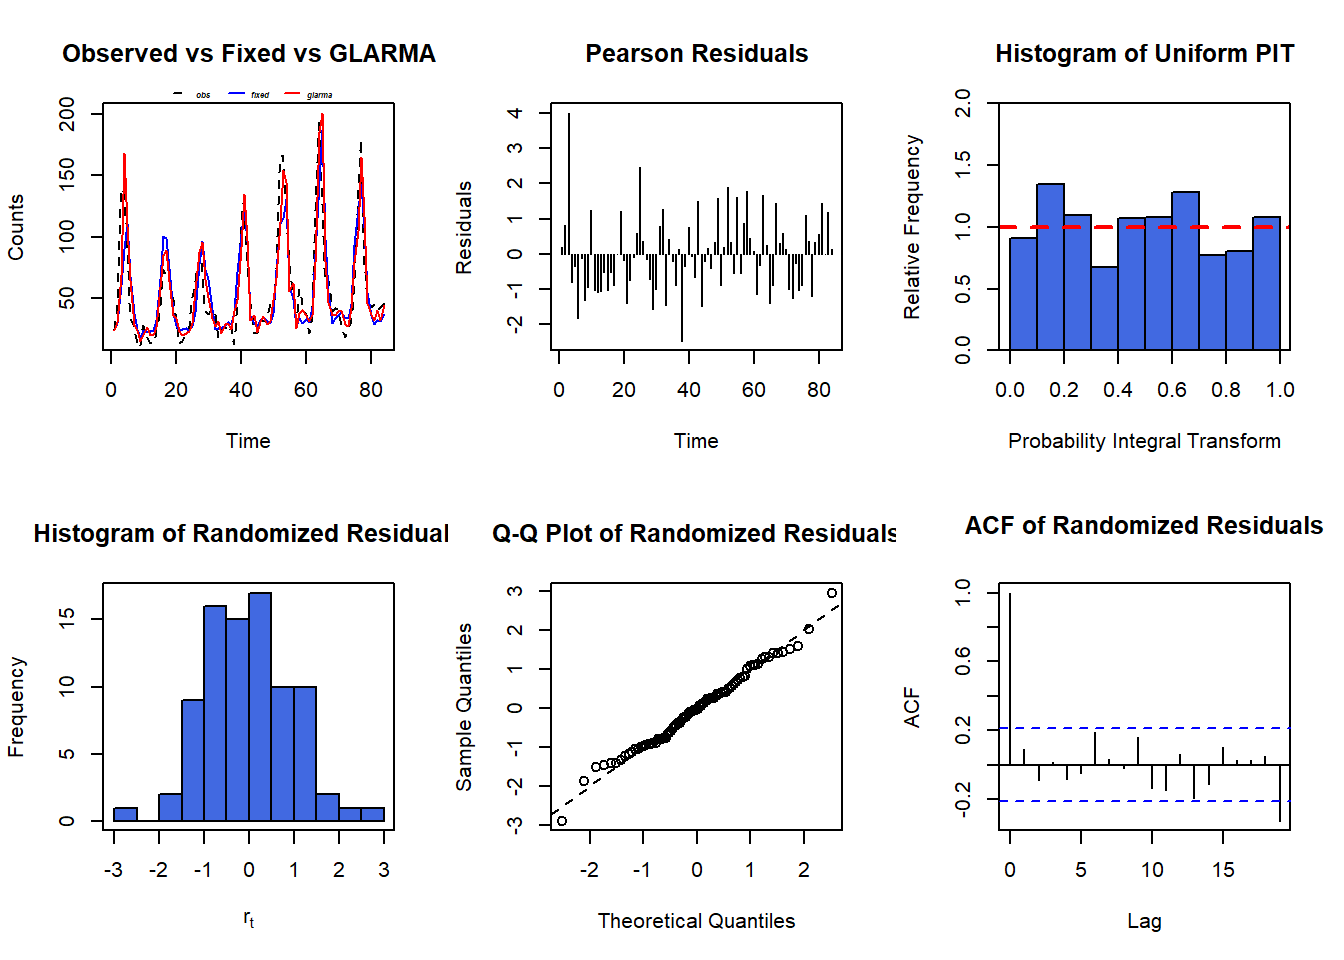
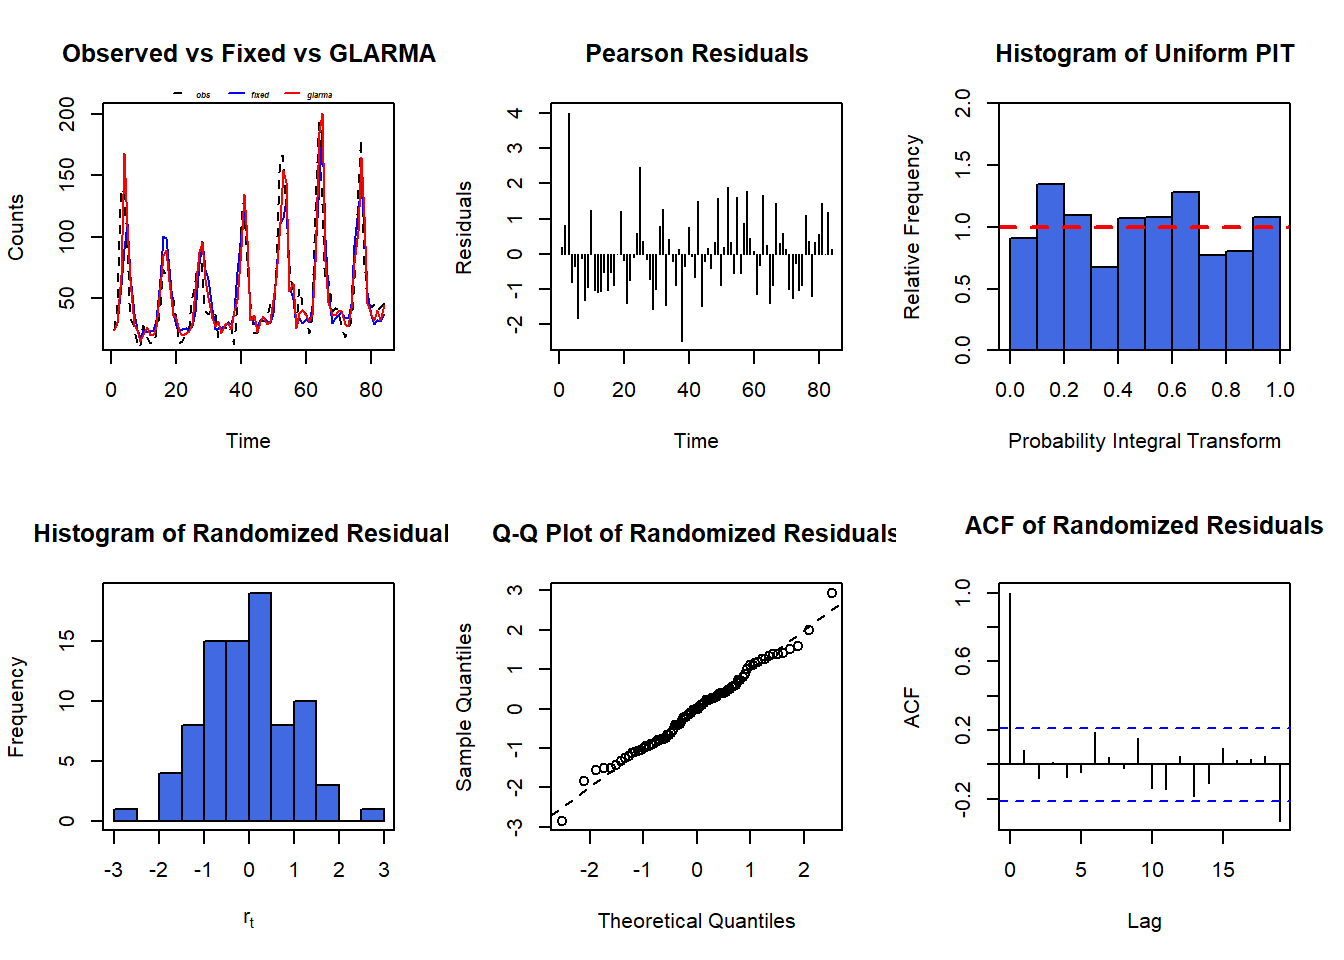
a

diff --git a/docs/relatorio3.html b/docs/relatorio3.html
@@ -183,7 +183,11 @@ code span.wa { color: #60a0b0; font-weight: bold; font-style: italic; } /* Warni
   </ul></li>
   <li><a href="#resultado-pca" id="toc-resultado-pca" class="nav-link" data-scroll-target="#resultado-pca">Resultado PCA</a>
   <ul class="collapse">
-  <li><a href="#glarma" id="toc-glarma" class="nav-link" data-scroll-target="#glarma">GLARMA</a></li>
+  <li><a href="#glarma" id="toc-glarma" class="nav-link" data-scroll-target="#glarma">GLARMA</a>
+  <ul class="collapse">
+  <li><a href="#poi" id="toc-poi" class="nav-link" data-scroll-target="#poi">Poi</a></li>
+  <li><a href="#negbin" id="toc-negbin" class="nav-link" data-scroll-target="#negbin">NegBin</a></li>
+  </ul></li>
   </ul></li>
   </ul>
 </nav>
@@ -428,59 +432,69 @@ Cumulative Proportion  0.999956327 1.000000e+00      1</code></pre>
 84  0.99776282  1.56740345  0.232734416  0.85905121</code></pre>
 </div>
 </div>
-<section id="glarma" class="level2">
-<h2 class="anchored" data-anchor-id="glarma">GLARMA</h2>
-<section id="poi" class="level4">
-<h4 class="anchored" data-anchor-id="poi">Poi</h4>
 <div class="cell">
 <details>
 <summary>Code</summary>
-<div class="sourceCode cell-code" id="cb12"><pre class="sourceCode r code-with-copy"><code class="sourceCode r"><span id="cb12-1"><a href="#cb12-1" aria-hidden="true" tabindex="-1"></a>glarma_poi <span class="ot">&lt;-</span> <span class="fu">glarma</span>(y, df_complicado, <span class="at">thetaLags =</span> <span class="dv">1</span>, <span class="at">phiLags =</span> <span class="cn">NULL</span>, <span class="at">type =</span> <span class="st">"Poi"</span>,</span>
-<span id="cb12-2"><a href="#cb12-2" aria-hidden="true" tabindex="-1"></a>                    <span class="at">method =</span> <span class="st">"FS"</span>, <span class="at">residuals=</span> <span class="st">"Pearson"</span>,</span>
-<span id="cb12-3"><a href="#cb12-3" aria-hidden="true" tabindex="-1"></a>                    <span class="at">maxit =</span> <span class="dv">100</span>, <span class="at">grad =</span> <span class="fl">1e-6</span>)</span>
-<span id="cb12-4"><a href="#cb12-4" aria-hidden="true" tabindex="-1"></a></span>
-<span id="cb12-5"><a href="#cb12-5" aria-hidden="true" tabindex="-1"></a><span class="fu">summary</span>(glarma_poi)</span></code><button title="Copy to Clipboard" class="code-copy-button"><i class="bi"></i></button></pre></div>
+<div class="sourceCode cell-code" id="cb12"><pre class="sourceCode r code-with-copy"><code class="sourceCode r"><span id="cb12-1"><a href="#cb12-1" aria-hidden="true" tabindex="-1"></a>corr_matrix <span class="ot">&lt;-</span> <span class="fu">cor</span>(df_complicado)</span>
+<span id="cb12-2"><a href="#cb12-2" aria-hidden="true" tabindex="-1"></a><span class="fu">ggcorrplot</span>(corr_matrix)</span></code><button title="Copy to Clipboard" class="code-copy-button"><i class="bi"></i></button></pre></div>
+</details>
+<div class="cell-output-display">
+<p><img src="relatorio3_files/figure-html/unnamed-chunk-10-1.png" class="img-fluid" width="672"></p>
+</div>
+</div>
+<section id="glarma" class="level2">
+<h2 class="anchored" data-anchor-id="glarma">GLARMA</h2>
+<section id="poi" class="level3">
+<h3 class="anchored" data-anchor-id="poi">Poi</h3>
+<div class="cell">
+<details>
+<summary>Code</summary>
+<div class="sourceCode cell-code" id="cb13"><pre class="sourceCode r code-with-copy"><code class="sourceCode r"><span id="cb13-1"><a href="#cb13-1" aria-hidden="true" tabindex="-1"></a>glarma_poi <span class="ot">&lt;-</span> <span class="fu">glarma</span>(y, df_complicado, <span class="at">thetaLags =</span> <span class="cn">NULL</span>, <span class="at">phiLags =</span> <span class="dv">1</span>, <span class="at">type =</span> <span class="st">"Poi"</span>,</span>
+<span id="cb13-2"><a href="#cb13-2" aria-hidden="true" tabindex="-1"></a>                    <span class="at">method =</span> <span class="st">"FS"</span>, <span class="at">residuals=</span> <span class="st">"Pearson"</span>,</span>
+<span id="cb13-3"><a href="#cb13-3" aria-hidden="true" tabindex="-1"></a>                    <span class="at">maxit =</span> <span class="dv">100</span>, <span class="at">grad =</span> <span class="fl">1e-6</span>)</span>
+<span id="cb13-4"><a href="#cb13-4" aria-hidden="true" tabindex="-1"></a></span>
+<span id="cb13-5"><a href="#cb13-5" aria-hidden="true" tabindex="-1"></a><span class="fu">summary</span>(glarma_poi)</span></code><button title="Copy to Clipboard" class="code-copy-button"><i class="bi"></i></button></pre></div>
 </details>
 <div class="cell-output cell-output-stdout">
 <pre><code>
 Call: glarma(y = y, X = df_complicado, type = "Poi", method = "FS", 
-    residuals = "Pearson", phiLags = NULL, thetaLags = 1, maxit = 100, 
+    residuals = "Pearson", phiLags = 1, thetaLags = NULL, maxit = 100, 
     grad = 1e-06)
 
 Pearson Residuals:
-   Min      1Q  Median      3Q     Max  
--4.694  -1.707   0.064   1.325   9.512  
+    Min       1Q   Median       3Q      Max  
+-4.7316  -1.6451  -0.0355   1.2965   9.3735  
 
 GLARMA Coefficients:
-        Estimate Std.Error z-ratio Pr(&gt;|z|)    
-theta_1 0.067458  0.004947   13.63   &lt;2e-16 ***
+      Estimate Std.Error z-ratio Pr(&gt;|z|)    
+phi_1 0.070152  0.005125   13.69   &lt;2e-16 ***
 
 Linear Model Coefficients:
-           Estimate  Std.Error z-ratio Pr(&gt;|z|)    
-PC1      -0.1741940  0.0156628 -11.121  &lt; 2e-16 ***
-PC2      -0.0723606  0.0258941  -2.794   0.0052 ** 
-PC3      -0.0826158  0.0145867  -5.664 1.48e-08 ***
-PC4      -0.0862355  0.0301241  -2.863   0.0042 ** 
-Temp_min  0.1227630  0.0139110   8.825  &lt; 2e-16 ***
-RH        0.0204220  0.0041484   4.923 8.53e-07 ***
-sen12     0.4739309  0.0460516  10.291  &lt; 2e-16 ***
-cos12    -0.5132344  0.0516942  -9.928  &lt; 2e-16 ***
-sen6     -0.3500986  0.0322274 -10.863  &lt; 2e-16 ***
-cos6     -0.0581750  0.0350609  -1.659   0.0971 .  
-Trend     0.0074908  0.0009918   7.553 4.26e-14 ***
+          Estimate Std.Error z-ratio Pr(&gt;|z|)    
+PC1      -0.173136  0.015741 -10.999  &lt; 2e-16 ***
+PC2      -0.078112  0.026065  -2.997  0.00273 ** 
+PC3      -0.083885  0.014566  -5.759 8.47e-09 ***
+PC4      -0.080073  0.030294  -2.643  0.00821 ** 
+Temp_min  0.121829  0.014033   8.682  &lt; 2e-16 ***
+RH        0.020551  0.004182   4.914 8.93e-07 ***
+sen12     0.479006  0.046935  10.206  &lt; 2e-16 ***
+cos12    -0.517996  0.052324  -9.900  &lt; 2e-16 ***
+sen6     -0.350904  0.032407 -10.828  &lt; 2e-16 ***
+cos6     -0.054679  0.035082  -1.559  0.11909    
+Trend     0.007656  0.001027   7.457 8.82e-14 ***
 
     Null deviance: 2279.04  on 83  degrees of freedom
-Residual deviance:  404.45  on 72  degrees of freedom
-AIC: 883.479 
+Residual deviance:  402.21  on 72  degrees of freedom
+AIC: 881.9241 
 
-Number of Fisher Scoring iterations: 40
+Number of Fisher Scoring iterations: 32
 
 LRT and Wald Test:
 Alternative hypothesis: model is a GLARMA process
 Null hypothesis: model is a GLM with the same regression structure
           Statistic p-value    
-LR Test       137.7  &lt;2e-16 ***
-Wald Test     185.9  &lt;2e-16 ***
+LR Test       139.3  &lt;2e-16 ***
+Wald Test     187.4  &lt;2e-16 ***
 ---
 Signif. codes:  0 '***' 0.001 '**' 0.01 '*' 0.05 '.' 0.1 ' ' 1</code></pre>
 </div>
@@ -488,35 +502,35 @@ Signif. codes:  0 '***' 0.001 '**' 0.01 '*' 0.05 '.' 0.1 ' ' 1</code></pre>
 <div class="cell">
 <details>
 <summary>Code</summary>
-<div class="sourceCode cell-code" id="cb14"><pre class="sourceCode r code-with-copy"><code class="sourceCode r"><span id="cb14-1"><a href="#cb14-1" aria-hidden="true" tabindex="-1"></a><span class="fu">par</span>(<span class="at">mfrow =</span> <span class="fu">c</span>(<span class="dv">2</span>, <span class="dv">1</span>))</span>
-<span id="cb14-2"><a href="#cb14-2" aria-hidden="true" tabindex="-1"></a><span class="fu">acf</span>(glarma_poi<span class="sc">$</span>residuals)</span>
-<span id="cb14-3"><a href="#cb14-3" aria-hidden="true" tabindex="-1"></a><span class="fu">pacf</span>(glarma_poi<span class="sc">$</span>residuals)</span></code><button title="Copy to Clipboard" class="code-copy-button"><i class="bi"></i></button></pre></div>
-</details>
-<div class="cell-output-display">
-<p><img src="relatorio3_files/figure-html/unnamed-chunk-11-1.png" class="img-fluid" width="672"></p>
-</div>
-</div>
-<div class="cell">
-<details>
-<summary>Code</summary>
-<div class="sourceCode cell-code" id="cb15"><pre class="sourceCode r code-with-copy"><code class="sourceCode r"><span id="cb15-1"><a href="#cb15-1" aria-hidden="true" tabindex="-1"></a><span class="fu">par</span>(<span class="at">mfrow=</span><span class="fu">c</span>(<span class="dv">2</span>,<span class="dv">3</span>))</span>
-<span id="cb15-2"><a href="#cb15-2" aria-hidden="true" tabindex="-1"></a><span class="fu">plot</span>(glarma_poi)</span></code><button title="Copy to Clipboard" class="code-copy-button"><i class="bi"></i></button></pre></div>
+<div class="sourceCode cell-code" id="cb15"><pre class="sourceCode r code-with-copy"><code class="sourceCode r"><span id="cb15-1"><a href="#cb15-1" aria-hidden="true" tabindex="-1"></a><span class="fu">par</span>(<span class="at">mfrow =</span> <span class="fu">c</span>(<span class="dv">2</span>, <span class="dv">1</span>))</span>
+<span id="cb15-2"><a href="#cb15-2" aria-hidden="true" tabindex="-1"></a><span class="fu">acf</span>(glarma_poi<span class="sc">$</span>residuals)</span>
+<span id="cb15-3"><a href="#cb15-3" aria-hidden="true" tabindex="-1"></a><span class="fu">pacf</span>(glarma_poi<span class="sc">$</span>residuals)</span></code><button title="Copy to Clipboard" class="code-copy-button"><i class="bi"></i></button></pre></div>
 </details>
 <div class="cell-output-display">
 <p><img src="relatorio3_files/figure-html/unnamed-chunk-12-1.png" class="img-fluid" width="672"></p>
 </div>
 </div>
-</section>
-<section id="negbin" class="level4">
-<h4 class="anchored" data-anchor-id="negbin">NegBin</h4>
 <div class="cell">
 <details>
 <summary>Code</summary>
-<div class="sourceCode cell-code" id="cb16"><pre class="sourceCode r code-with-copy"><code class="sourceCode r"><span id="cb16-1"><a href="#cb16-1" aria-hidden="true" tabindex="-1"></a>glarma_nb <span class="ot">&lt;-</span> <span class="fu">glarma</span>(y, df_complicado, <span class="at">thetaLags =</span> <span class="dv">1</span>, <span class="at">phiLags =</span> <span class="cn">NULL</span>, <span class="at">type =</span> <span class="st">"NegBin"</span>,</span>
-<span id="cb16-2"><a href="#cb16-2" aria-hidden="true" tabindex="-1"></a>                    <span class="at">method =</span> <span class="st">"FS"</span>, <span class="at">residuals=</span> <span class="st">"Pearson"</span>,</span>
-<span id="cb16-3"><a href="#cb16-3" aria-hidden="true" tabindex="-1"></a>                    <span class="at">maxit =</span> <span class="dv">100</span>, <span class="at">grad =</span> <span class="fl">1e-6</span>)</span>
-<span id="cb16-4"><a href="#cb16-4" aria-hidden="true" tabindex="-1"></a></span>
-<span id="cb16-5"><a href="#cb16-5" aria-hidden="true" tabindex="-1"></a><span class="fu">summary</span>(glarma_nb)</span></code><button title="Copy to Clipboard" class="code-copy-button"><i class="bi"></i></button></pre></div>
+<div class="sourceCode cell-code" id="cb16"><pre class="sourceCode r code-with-copy"><code class="sourceCode r"><span id="cb16-1"><a href="#cb16-1" aria-hidden="true" tabindex="-1"></a><span class="fu">par</span>(<span class="at">mfrow=</span><span class="fu">c</span>(<span class="dv">2</span>,<span class="dv">3</span>))</span>
+<span id="cb16-2"><a href="#cb16-2" aria-hidden="true" tabindex="-1"></a><span class="fu">plot</span>(glarma_poi)</span></code><button title="Copy to Clipboard" class="code-copy-button"><i class="bi"></i></button></pre></div>
+</details>
+<div class="cell-output-display">
+<p><img src="relatorio3_files/figure-html/unnamed-chunk-13-1.png" class="img-fluid" width="672"></p>
+</div>
+</div>
+</section>
+<section id="negbin" class="level3">
+<h3 class="anchored" data-anchor-id="negbin">NegBin</h3>
+<div class="cell">
+<details>
+<summary>Code</summary>
+<div class="sourceCode cell-code" id="cb17"><pre class="sourceCode r code-with-copy"><code class="sourceCode r"><span id="cb17-1"><a href="#cb17-1" aria-hidden="true" tabindex="-1"></a>glarma_nb <span class="ot">&lt;-</span> <span class="fu">glarma</span>(y, df_complicado, <span class="at">thetaLags =</span> <span class="dv">1</span>, <span class="at">phiLags =</span> <span class="cn">NULL</span>, <span class="at">type =</span> <span class="st">"NegBin"</span>,</span>
+<span id="cb17-2"><a href="#cb17-2" aria-hidden="true" tabindex="-1"></a>                    <span class="at">method =</span> <span class="st">"FS"</span>, <span class="at">residuals=</span> <span class="st">"Pearson"</span>,</span>
+<span id="cb17-3"><a href="#cb17-3" aria-hidden="true" tabindex="-1"></a>                    <span class="at">maxit =</span> <span class="dv">100</span>, <span class="at">grad =</span> <span class="fl">1e-6</span>)</span>
+<span id="cb17-4"><a href="#cb17-4" aria-hidden="true" tabindex="-1"></a></span>
+<span id="cb17-5"><a href="#cb17-5" aria-hidden="true" tabindex="-1"></a><span class="fu">summary</span>(glarma_nb)</span></code><button title="Copy to Clipboard" class="code-copy-button"><i class="bi"></i></button></pre></div>
 </details>
 <div class="cell-output cell-output-stdout">
 <pre><code>
@@ -569,22 +583,22 @@ Signif. codes:  0 '***' 0.001 '**' 0.01 '*' 0.05 '.' 0.1 ' ' 1</code></pre>
 <div class="cell">
 <details>
 <summary>Code</summary>
-<div class="sourceCode cell-code" id="cb18"><pre class="sourceCode r code-with-copy"><code class="sourceCode r"><span id="cb18-1"><a href="#cb18-1" aria-hidden="true" tabindex="-1"></a><span class="fu">par</span>(<span class="at">mfrow =</span> <span class="fu">c</span>(<span class="dv">2</span>, <span class="dv">1</span>))</span>
-<span id="cb18-2"><a href="#cb18-2" aria-hidden="true" tabindex="-1"></a><span class="fu">acf</span>(glarma_nb<span class="sc">$</span>residuals)</span>
-<span id="cb18-3"><a href="#cb18-3" aria-hidden="true" tabindex="-1"></a><span class="fu">pacf</span>(glarma_nb<span class="sc">$</span>residuals)</span></code><button title="Copy to Clipboard" class="code-copy-button"><i class="bi"></i></button></pre></div>
+<div class="sourceCode cell-code" id="cb19"><pre class="sourceCode r code-with-copy"><code class="sourceCode r"><span id="cb19-1"><a href="#cb19-1" aria-hidden="true" tabindex="-1"></a><span class="fu">par</span>(<span class="at">mfrow =</span> <span class="fu">c</span>(<span class="dv">2</span>, <span class="dv">1</span>))</span>
+<span id="cb19-2"><a href="#cb19-2" aria-hidden="true" tabindex="-1"></a><span class="fu">acf</span>(glarma_nb<span class="sc">$</span>residuals)</span>
+<span id="cb19-3"><a href="#cb19-3" aria-hidden="true" tabindex="-1"></a><span class="fu">pacf</span>(glarma_nb<span class="sc">$</span>residuals)</span></code><button title="Copy to Clipboard" class="code-copy-button"><i class="bi"></i></button></pre></div>
 </details>
 <div class="cell-output-display">
-<p><img src="relatorio3_files/figure-html/unnamed-chunk-14-1.png" class="img-fluid" width="672"></p>
+<p><img src="relatorio3_files/figure-html/unnamed-chunk-15-1.png" class="img-fluid" width="672"></p>
 </div>
 </div>
 <div class="cell">
 <details>
 <summary>Code</summary>
-<div class="sourceCode cell-code" id="cb19"><pre class="sourceCode r code-with-copy"><code class="sourceCode r"><span id="cb19-1"><a href="#cb19-1" aria-hidden="true" tabindex="-1"></a><span class="fu">par</span>(<span class="at">mfrow=</span><span class="fu">c</span>(<span class="dv">2</span>,<span class="dv">3</span>))</span>
-<span id="cb19-2"><a href="#cb19-2" aria-hidden="true" tabindex="-1"></a><span class="fu">plot</span>(glarma_nb)</span></code><button title="Copy to Clipboard" class="code-copy-button"><i class="bi"></i></button></pre></div>
+<div class="sourceCode cell-code" id="cb20"><pre class="sourceCode r code-with-copy"><code class="sourceCode r"><span id="cb20-1"><a href="#cb20-1" aria-hidden="true" tabindex="-1"></a><span class="fu">par</span>(<span class="at">mfrow=</span><span class="fu">c</span>(<span class="dv">2</span>,<span class="dv">3</span>))</span>
+<span id="cb20-2"><a href="#cb20-2" aria-hidden="true" tabindex="-1"></a><span class="fu">plot</span>(glarma_nb)</span></code><button title="Copy to Clipboard" class="code-copy-button"><i class="bi"></i></button></pre></div>
 </details>
 <div class="cell-output-display">
-<p><img src="relatorio3_files/figure-html/unnamed-chunk-15-1.png" class="img-fluid" width="672"></p>
+<p><img src="relatorio3_files/figure-html/unnamed-chunk-16-1.png" class="img-fluid" width="672"></p>
 </div>
 </div>
 
